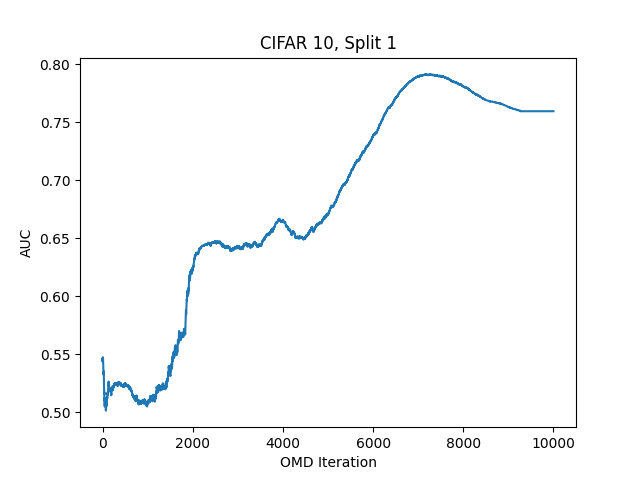
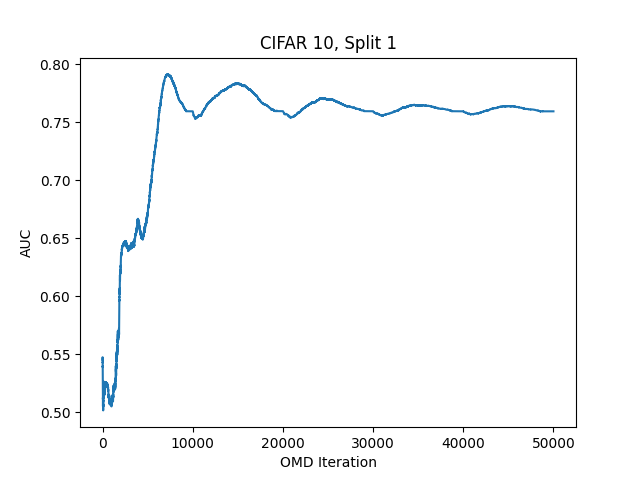
Ran Oracle OMD experiments with Multiple Passes over Val Set

diff --git a/oracle_omd.py b/oracle_omd.py
@@ -90,6 +90,7 @@ def omd_test(train_latent_data, latent_data, anom_classes, split, loda_tx_test, 
     '''
     N = len(latent_data)
     T = N
+    epochs = 5
     labels = latent_data['label'].copy()
     labels = labels.to_numpy().reshape((len(labels),1))
     #theta, clf = get_weight_prior(train_latent_data)
@@ -100,27 +101,40 @@ def omd_test(train_latent_data, latent_data, anom_classes, split, loda_tx_test, 
  
     if os.path.isfile(loda_tx_val_filename):
         with open(loda_tx_val_filename, 'rb') as f:
-            data = np.load(f)
+            data_orig = np.load(f)
     else:
-        data = loda_transform(clf_omd, latent_data)
-        np.save(loda_tx_val_filename, data) 
+        data_orig = loda_transform(clf_omd, latent_data)
+        np.save(loda_tx_val_filename, data_orig) 
 
+    data = data_orig.copy()
     aucs = []    
+    iter_labels = []   
+ 
+    for k in range(epochs):
+        for i in range(T):
+            w = get_nearest_w(theta)
+            d_anom, idx = get_max_anomaly_score(w, data)
+            y = get_feedback(labels[idx,0], anom_classes)
+         
+            # Associating nom/anom labels with each iteration
+            iter_labels.append(y)
+     
+            data   = np.delete(data, idx, axis=0)
+            labels = np.delete(labels, idx, axis=0)
+            theta = theta + learning_rate*y*d_anom
+            
+            # See how the AUC is doing over all iterations
+            scores, y_actual = test_results(loda_tx_test, w, test_classes, anom_classes)
+            aucs.append(roc_auc_score(y_actual, scores))
 
-    for i in range(T):
-        w = get_nearest_w(theta)
-        d_anom, idx = get_max_anomaly_score(w, data)
-        y = get_feedback(labels[idx,0], anom_classes)
-        data   = np.delete(data, idx, axis=0)
-        labels = np.delete(labels, idx, axis=0)
-        theta = theta + learning_rate*y*d_anom
-        
-        # See how the AUC is doing over all iterations
-        scores, y_actual = test_results(loda_tx_test, w, test_classes, anom_classes)
-        aucs.append(roc_auc_score(y_actual, scores))
-    
+        # Reset data and labels to run over all data again
+        labels = latent_data['label'].copy()
+        labels = labels.to_numpy().reshape((len(labels),1))
+        data = data_orig.copy()
+            
+
     print("AUC OMD Done")
-    return np.array([i for i in range(T)]), np.array(aucs), y_actual 
+    return np.array([i for i in range(epochs*T)]), np.array(aucs), np.array(iter_labels) 
 
 
 def omd(train_latent_data, latent_data, anom_classes, split, learning_rate=1e-2):
@@ -139,6 +153,7 @@ def omd(train_latent_data, latent_data, anom_classes, split, learning_rate=1e-2)
                   be a list of unique strings)
     '''
     N = len(latent_data)
+    epochs = 5
     T = N
     labels = latent_data['label'].copy()
     labels = labels.to_numpy().reshape((len(labels),1))
@@ -146,42 +161,32 @@ def omd(train_latent_data, latent_data, anom_classes, split, learning_rate=1e-2)
     wprior = np.reshape(wprior, (len(wprior), 1))
     theta = wprior.copy()
     theta = np.reshape(theta, (len(theta), 1))
-    #data = loda_transform(clf, latent_data)
     
     loda_tx_val_filename = os.path.join(MODEL_DATA_DIRECTORY, 'val_loda_tx_latent_{}.npy'.format(split)) 
  
     if os.path.isfile(loda_tx_val_filename):
         with open(loda_tx_val_filename, 'rb') as f:
-            data = np.load(f)
+            data_orig = np.load(f)
     else:
-        data = loda_transform(clf_omd, latent_data)
-        np.save(loda_tx_val_filename, data) 
+        data_orig = loda_transform(clf_omd, latent_data)
+        np.save(loda_tx_val_filename, data_orig) 
 
-    #print('Weight Prior: {}'.format(theta))
-    # Note that this is usually implemented as an
-    # online algorithm so number of time steps (steps
-    # of this outer loop) are usually ambiguous. Here
-    # we have a dataset of some fixed size, so we
-    # will start by running a single epoch over the
-    # dataset
-    for i in range(T):
-        w = get_nearest_w(theta)
-        #w = theta
-        d_anom, idx = get_max_anomaly_score(w, data)
-        y = get_feedback(labels[idx,0], anom_classes)
-        # TAG
-        #data.drop(data.index[idx])
-        data   = np.delete(data, idx, axis=0)
-        labels = np.delete(labels, idx, axis=0) # MIGHT NEED TO SPECIFY AXIS 
-        # linear loss function
-        # loss = -y*np.dot(w,d_anom)
-        #print('y: {}'.format(y))
-        # TODO: Let sign be positive 
-        theta = theta + learning_rate*y*d_anom#- learning_rate*y*d_anom
-        #if i == T-1:
-        #print('theta: {}'.format(theta))
-        #print(i)
-    #print('w: {}'.format(w))
+    data = data_orig.copy()
+
+    for k in range(epochs):
+        for i in range(T):
+            w = get_nearest_w(theta)
+            d_anom, idx = get_max_anomaly_score(w, data) # Could make this more generic strategy function
+            y = get_feedback(labels[idx,0], anom_classes)
+            data   = np.delete(data, idx, axis=0)
+            labels = np.delete(labels, idx, axis=0) 
+            theta = theta + learning_rate*y*d_anom
+    
+        # Reset data and labels to continue learning
+        labels = latent_data['label'].copy()
+        labels = labels.to_numpy().reshape((len(labels),1))
+        data = data_orig.copy()   
+ 
     print("OMD Done")
     return w, clf, wprior
 
